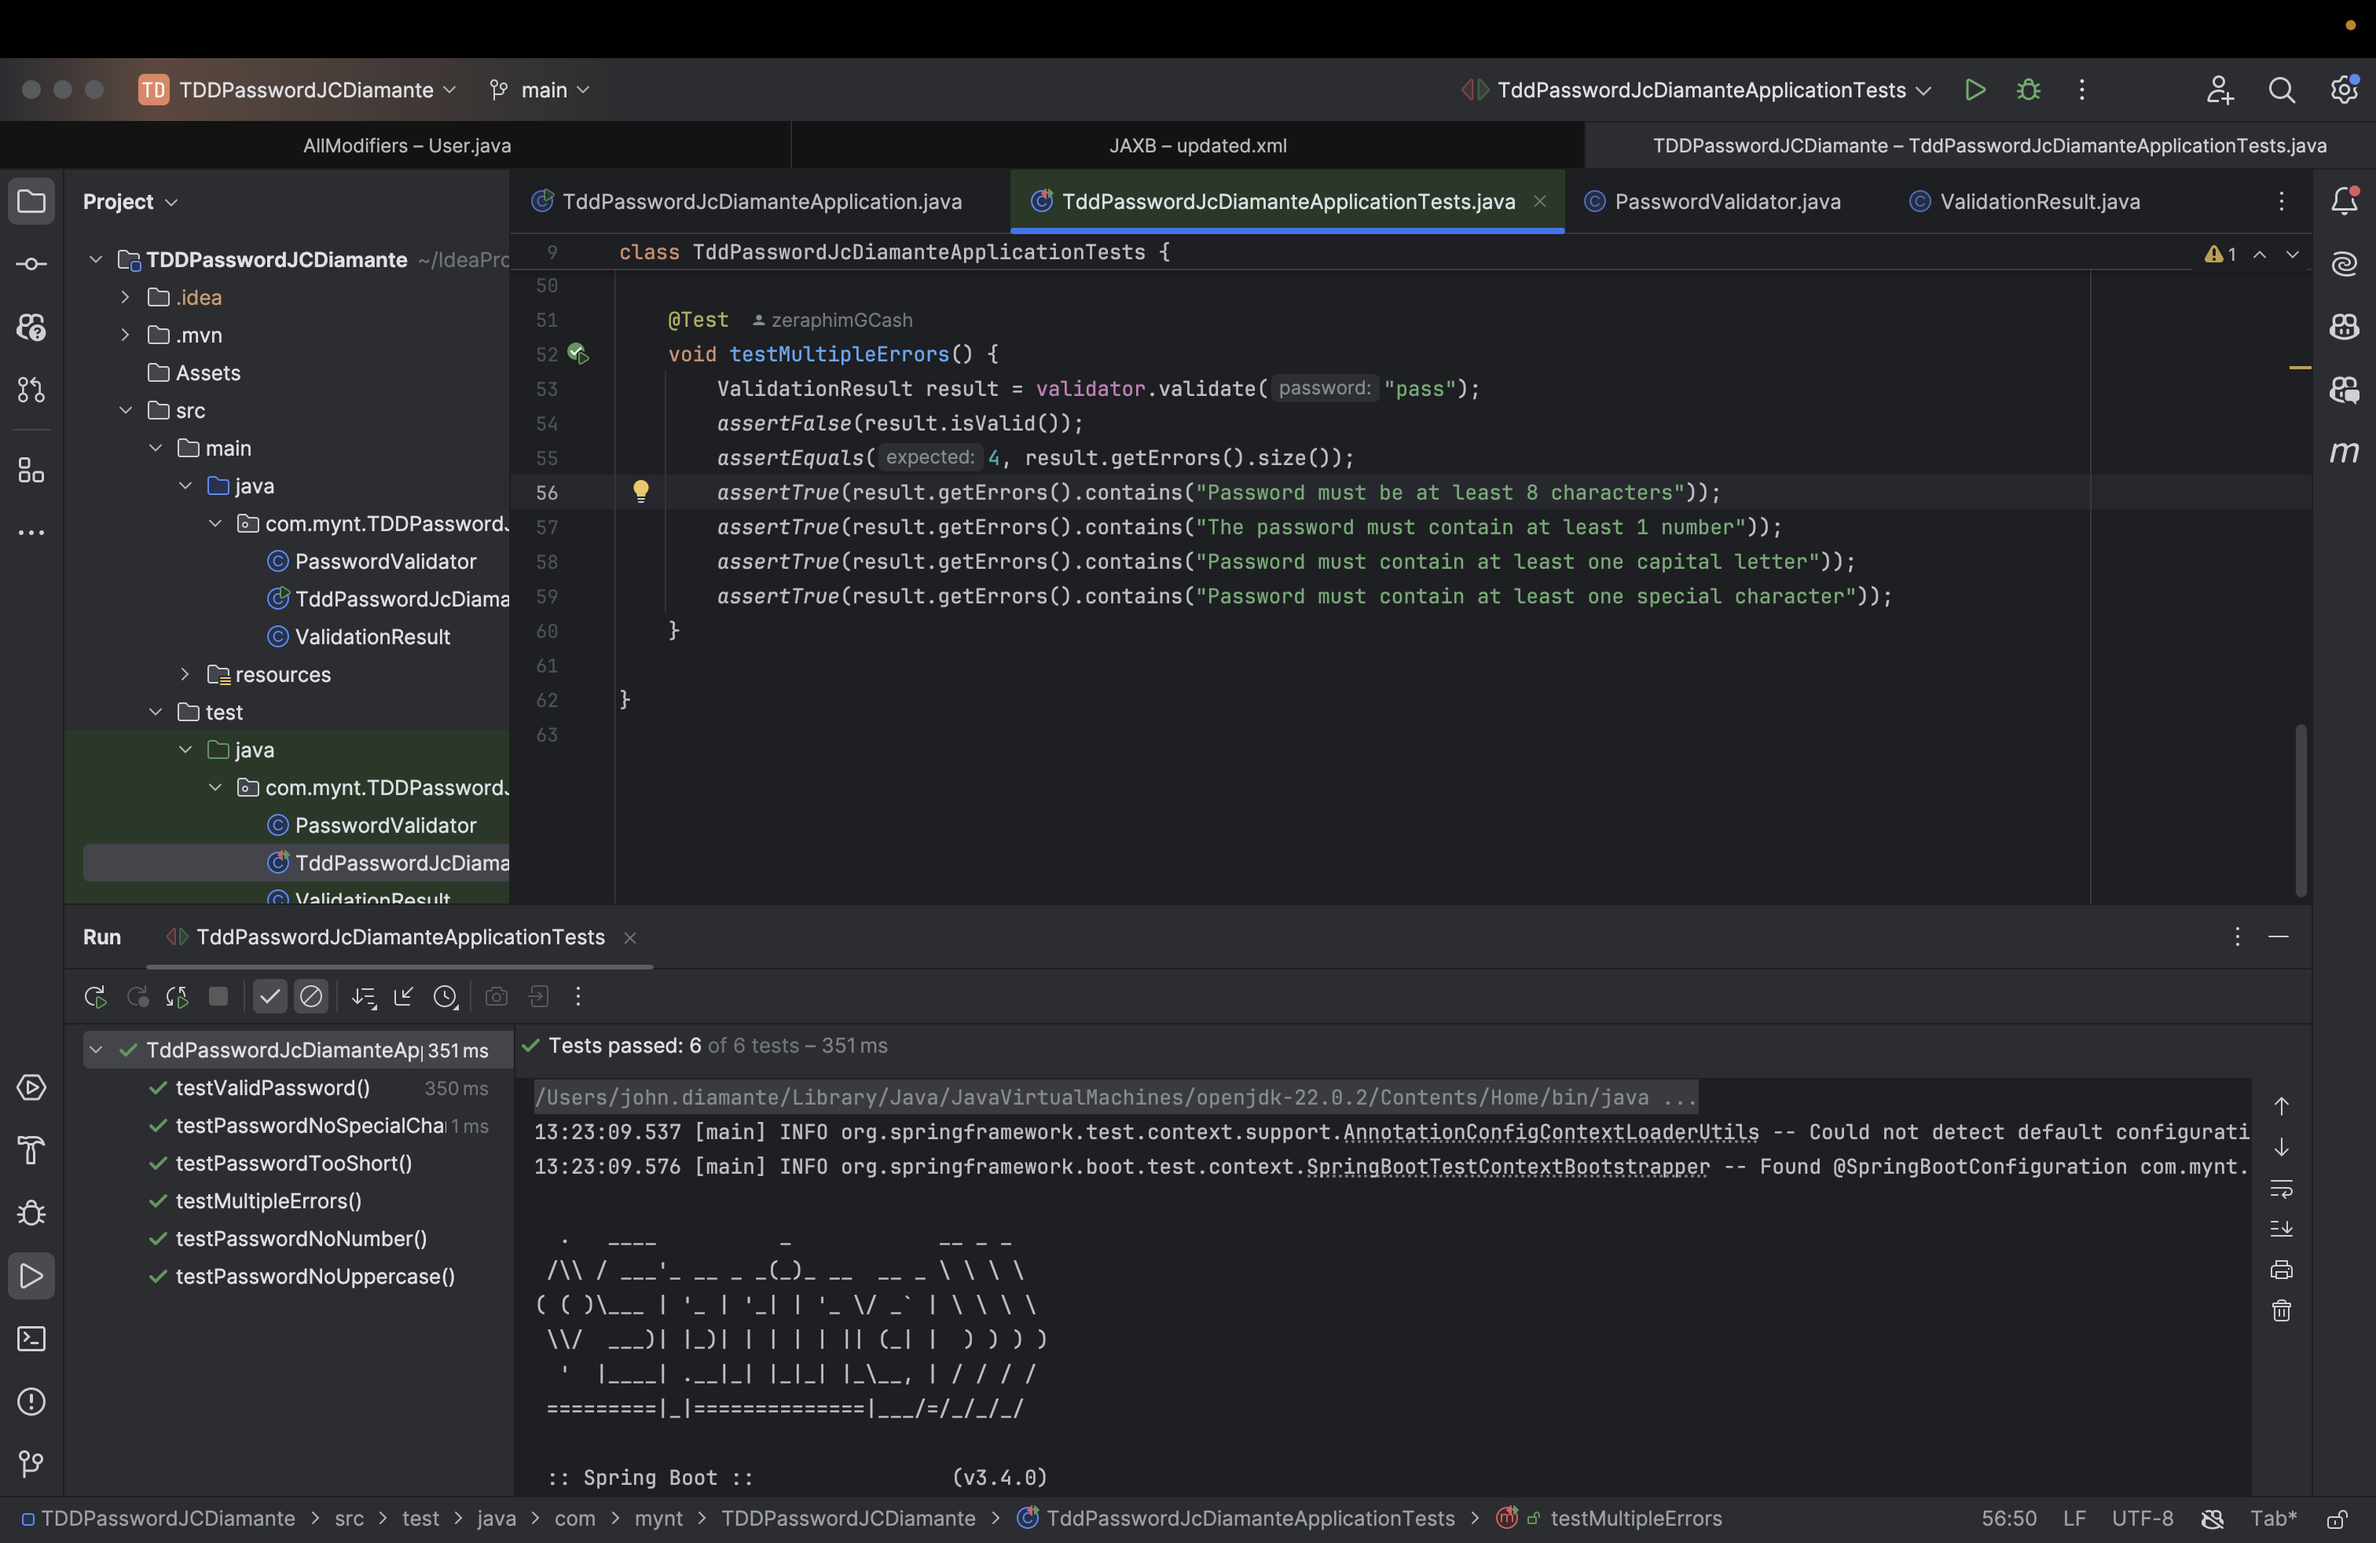
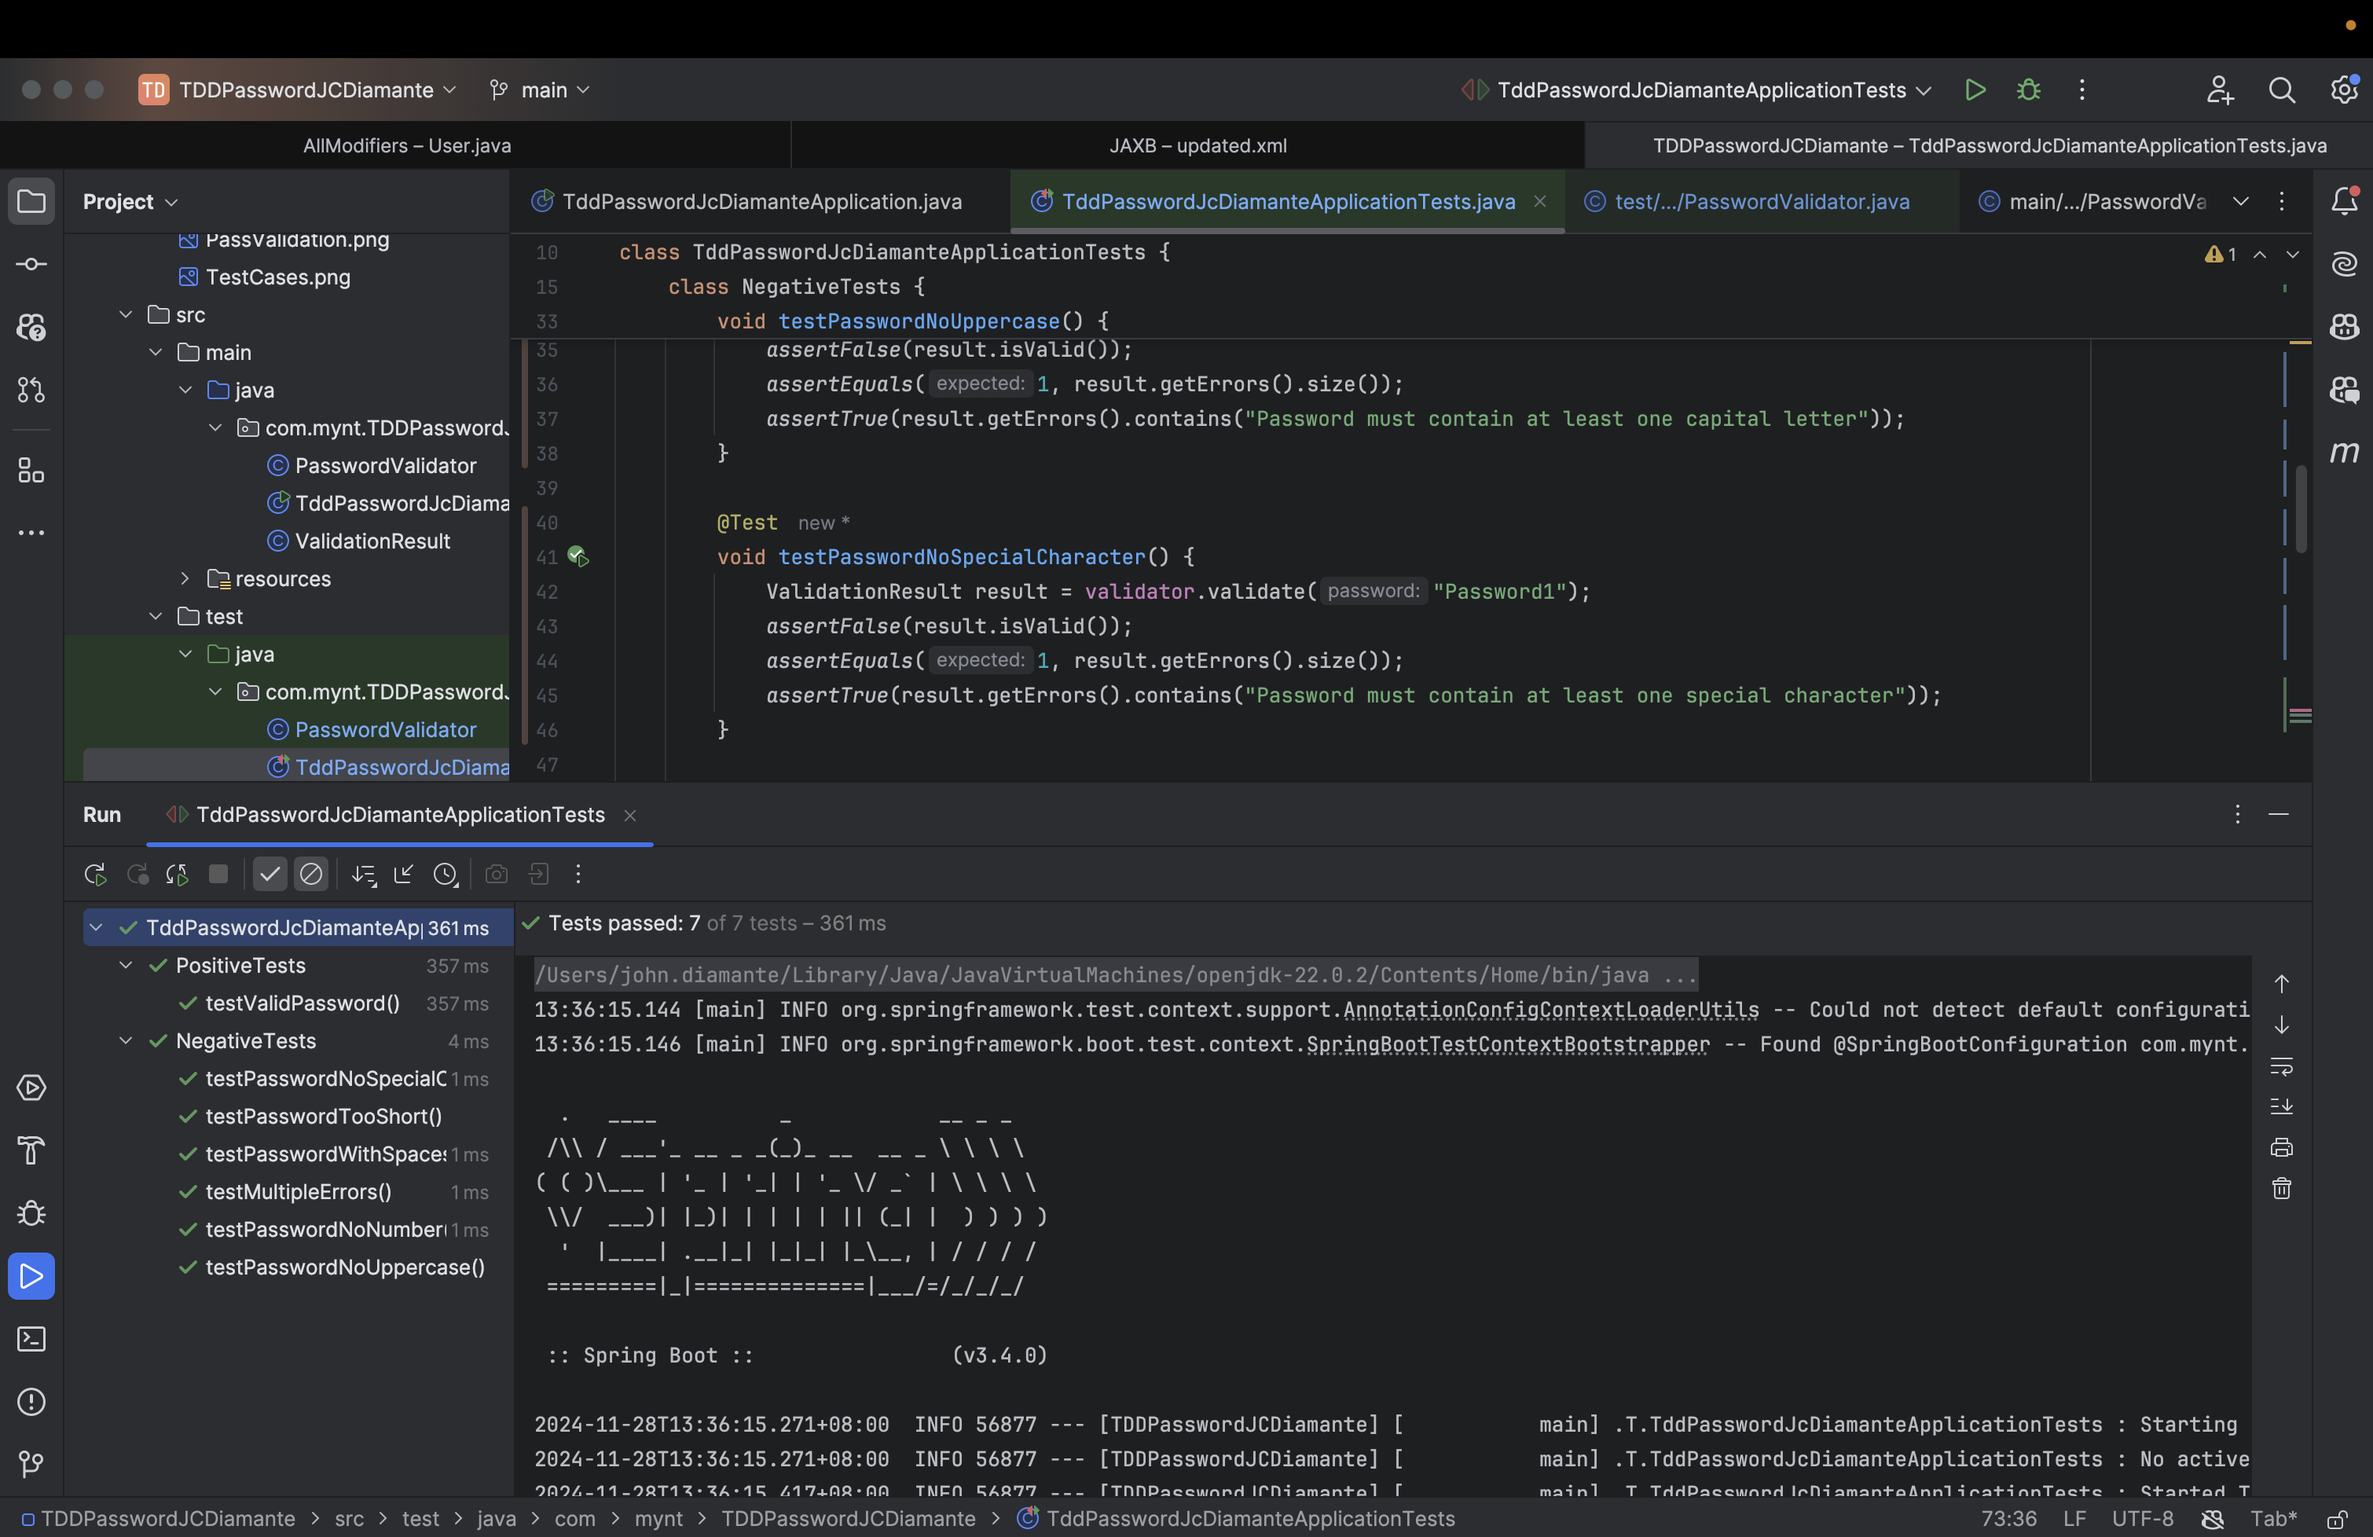
Nested test cases for Positive and Negative test cases. Added Test Case for having whitespace in the password.

diff --git a/src/test/java/com/mynt/TDDPasswordJCDiamante/TddPasswordJcDiamanteApplicationTests.java b/src/test/java/com/mynt/TDDPasswordJCDiamante/TddPasswordJcDiamanteApplicationTests.java
@@ -1,5 +1,6 @@
 package com.mynt.TDDPasswordJCDiamante;
 
+import org.junit.jupiter.api.Nested;
 import org.junit.jupiter.api.Test;
 import org.springframework.boot.test.context.SpringBootTest;
 
@@ -10,53 +11,68 @@ class TddPasswordJcDiamanteApplicationTests {
 
 	private PasswordValidator validator = new PasswordValidator();
 
-	@Test
-	void testPasswordTooShort() {
-		ValidationResult result = validator.validate("pass");
-		assertFalse(result.isValid());
-		assertEquals(4, result.getErrors().size());
-		assertTrue(result.getErrors().contains("Password must be at least 8 characters"));
+	@Nested
+	class NegativeTests {
+
+		@Test
+		void testPasswordTooShort() {
+			ValidationResult result = validator.validate("pass");
+			assertFalse(result.isValid());
+			assertEquals(4, result.getErrors().size());
+			assertTrue(result.getErrors().contains("Password must be at least 8 characters"));
+		}
+
+		@Test
+		void testPasswordNoNumber() {
+			ValidationResult result = validator.validate("Password");
+			assertFalse(result.isValid());
+			assertTrue(result.getErrors().contains("The password must contain at least 1 number"));
+		}
+
+		@Test
+		void testPasswordNoUppercase() {
+			ValidationResult result = validator.validate("password1!");
+			assertFalse(result.isValid());
+			assertEquals(1, result.getErrors().size());
+			assertTrue(result.getErrors().contains("Password must contain at least one capital letter"));
+		}
+
+		@Test
+		void testPasswordNoSpecialCharacter() {
+			ValidationResult result = validator.validate("Password1");
+			assertFalse(result.isValid());
+			assertEquals(1, result.getErrors().size());
+			assertTrue(result.getErrors().contains("Password must contain at least one special character"));
+		}
+
+		@Test
+		void testPasswordWithSpaces() {
+			ValidationResult result = validator.validate("Password 1!");
+			assertFalse(result.isValid());
+			assertEquals(1, result.getErrors().size());
+			assertTrue(result.getErrors().contains("Password cannot contain spaces"));
+		}
+
+		@Test
+		void testMultipleErrors() {
+			ValidationResult result = validator.validate("pass");
+			assertFalse(result.isValid());
+			assertEquals(4, result.getErrors().size());
+			assertTrue(result.getErrors().contains("Password must be at least 8 characters"));
+			assertTrue(result.getErrors().contains("The password must contain at least 1 number"));
+			assertTrue(result.getErrors().contains("Password must contain at least one capital letter"));
+			assertTrue(result.getErrors().contains("Password must contain at least one special character"));
+		}
 	}
 
-	@Test
-	void testPasswordNoNumber() {
-		ValidationResult result = validator.validate("Password");
-		assertFalse(result.isValid());
-		assertTrue(result.getErrors().contains("The password must contain at least 1 number"));
-	}
+	@Nested
+	class PositiveTests {
 
-	@Test
-	void testPasswordNoUppercase() {
-		ValidationResult result = validator.validate("password1!");
-		assertFalse(result.isValid());
-		assertEquals(1, result.getErrors().size());
-		assertTrue(result.getErrors().contains("Password must contain at least one capital letter"));
+		@Test
+		void testValidPassword() {
+			ValidationResult result = validator.validate("Password1!");
+			assertTrue(result.isValid());
+			assertEquals(0, result.getErrors().size());
+		}
 	}
-
-	@Test
-	void testPasswordNoSpecialCharacter() {
-		ValidationResult result = validator.validate("Password1");
-		assertFalse(result.isValid());
-		assertEquals(1, result.getErrors().size());
-		assertTrue(result.getErrors().contains("Password must contain at least one special character"));
-	}
-
-	@Test
-	void testValidPassword() {
-		ValidationResult result = validator.validate("Password1!");
-		assertTrue(result.isValid());
-		assertEquals(0, result.getErrors().size());
-	}
-
-	@Test
-	void testMultipleErrors() {
-		ValidationResult result = validator.validate("pass");
-		assertFalse(result.isValid());
-		assertEquals(4, result.getErrors().size());
-		assertTrue(result.getErrors().contains("Password must be at least 8 characters"));
-		assertTrue(result.getErrors().contains("The password must contain at least 1 number"));
-		assertTrue(result.getErrors().contains("Password must contain at least one capital letter"));
-		assertTrue(result.getErrors().contains("Password must contain at least one special character"));
-	}
-
 }

diff --git a/src/main/java/com/mynt/TDDPasswordJCDiamante/PasswordValidator.java b/src/main/java/com/mynt/TDDPasswordJCDiamante/PasswordValidator.java
@@ -28,6 +28,12 @@ public class PasswordValidator {
             errors.add("Password must contain at least one special character");
         }
 
+        // Check if there's a space (or any whitespace)
+        if (password.matches(".*\\s.*")) {
+            errors.add("Password cannot contain spaces");
+        }
+
+
         // Return validation result
         return new ValidationResult(errors.isEmpty(), errors);
     }

diff --git a/src/test/java/com/mynt/TDDPasswordJCDiamante/PasswordValidator.java b/src/test/java/com/mynt/TDDPasswordJCDiamante/PasswordValidator.java
@@ -33,6 +33,12 @@ public class PasswordValidator {
             errors.add("Password must contain at least one special character");
         }
 
+        // Check if there's a space (or any whitespace)
+        if (password.matches(".*\\s.*")) {
+            isValid = false;
+            errors.add("Password cannot contain spaces");
+        }
+
         return new ValidationResult(isValid, errors);
     }
 

diff --git a/src/main/java/com/mynt/TDDPasswordJCDiamante/TddPasswordJcDiamanteApplication.java b/src/main/java/com/mynt/TDDPasswordJCDiamante/TddPasswordJcDiamanteApplication.java
@@ -15,6 +15,7 @@ public class TddPasswordJcDiamanteApplication {
 				"Password",      // No number
 				"password1!",    // No uppercase
 				"Password1",     // No special character
+				"Password 1!",    // With Whitespace
 				"Password1!"     // Valid password
 		};
 

diff --git a/README.md b/README.md
@@ -13,8 +13,85 @@ Create a class that serves as a password validator. The validation takes a strin
 
 `NOTE: Use TDD`
 
-**Password Validation**
+## Password Validation
 ![Password Validation](Assets/PassValidation.png)
 
-**Test Cases**
+## Test Cases
 ![Test Cases](Assets/TestCases.png)
+
+## Nested Test Cases
+```java
+
+@SpringBootTest
+class TddPasswordJcDiamanteApplicationTests {
+
+	private PasswordValidator validator = new PasswordValidator();
+
+	@Nested
+	class NegativeTests {
+
+		@Test
+		void testPasswordTooShort() {
+			ValidationResult result = validator.validate("pass");
+			assertFalse(result.isValid());
+			assertEquals(4, result.getErrors().size());
+			assertTrue(result.getErrors().contains("Password must be at least 8 characters"));
+		}
+
+		@Test
+		void testPasswordNoNumber() {
+			ValidationResult result = validator.validate("Password");
+			assertFalse(result.isValid());
+			assertTrue(result.getErrors().contains("The password must contain at least 1 number"));
+		}
+
+		@Test
+		void testPasswordNoUppercase() {
+			ValidationResult result = validator.validate("password1!");
+			assertFalse(result.isValid());
+			assertEquals(1, result.getErrors().size());
+			assertTrue(result.getErrors().contains("Password must contain at least one capital letter"));
+		}
+
+		@Test
+		void testPasswordNoSpecialCharacter() {
+			ValidationResult result = validator.validate("Password1");
+			assertFalse(result.isValid());
+			assertEquals(1, result.getErrors().size());
+			assertTrue(result.getErrors().contains("Password must contain at least one special character"));
+		}
+
+		@Test
+		void testPasswordWithSpaces() {
+			ValidationResult result = validator.validate("Password 1!");
+			assertFalse(result.isValid());
+			assertEquals(1, result.getErrors().size());
+			assertTrue(result.getErrors().contains("Password cannot contain spaces"));
+		}
+
+		@Test
+		void testMultipleErrors() {
+			ValidationResult result = validator.validate("pass");
+			assertFalse(result.isValid());
+			assertEquals(4, result.getErrors().size());
+			assertTrue(result.getErrors().contains("Password must be at least 8 characters"));
+			assertTrue(result.getErrors().contains("The password must contain at least 1 number"));
+			assertTrue(result.getErrors().contains("Password must contain at least one capital letter"));
+			assertTrue(result.getErrors().contains("Password must contain at least one special character"));
+		}
+	}
+
+	@Nested
+	class PositiveTests {
+
+		@Test
+		void testValidPassword() {
+			ValidationResult result = validator.validate("Password1!");
+			assertTrue(result.isValid());
+			assertEquals(0, result.getErrors().size());
+		}
+	}
+}
+
+
+```
